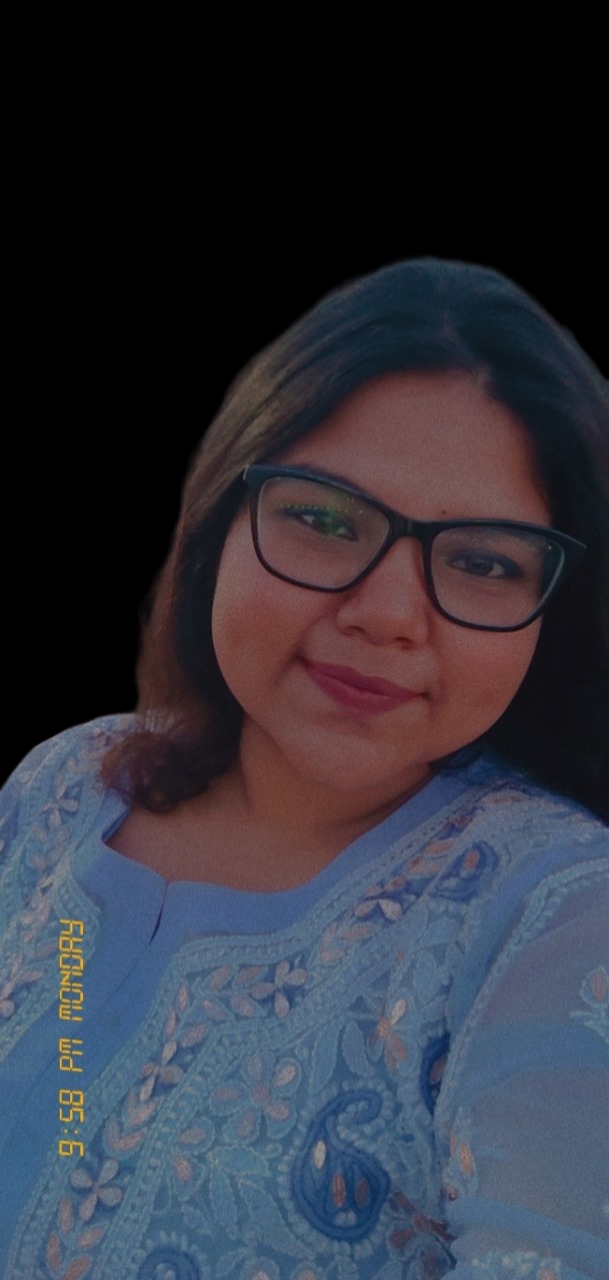
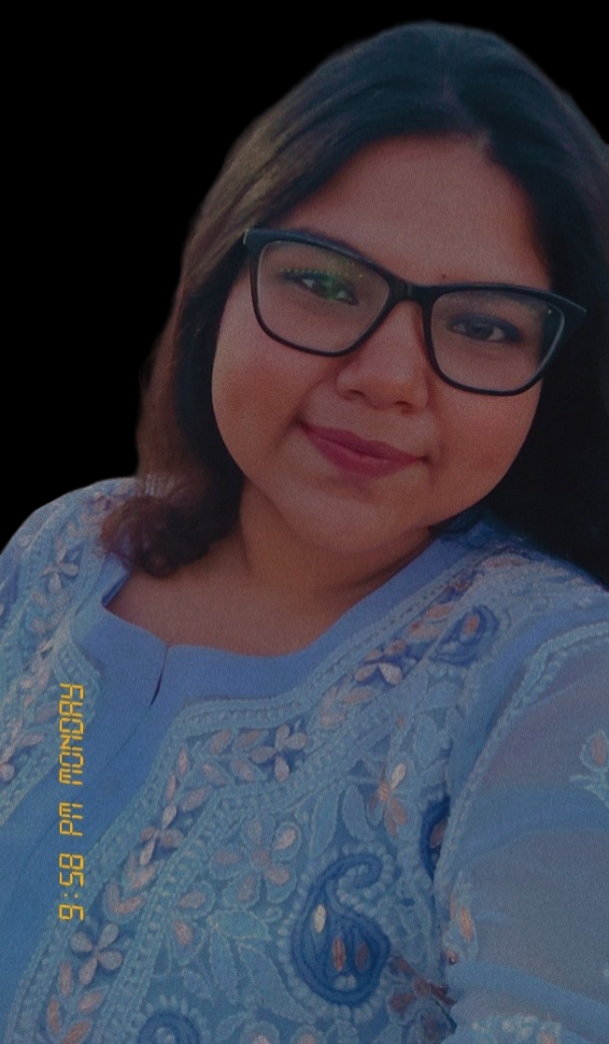
Review 1: Changes in About section

diff --git a/style.css b/style.css
@@ -23,6 +23,7 @@ body{
     padding: 10px 10%;
 
 }
+
 nav{
     display: flex;
     align-items:center;
@@ -77,7 +78,6 @@ nav ul li a:hover::after{
     
 }
 #pic1{
-
     height: 35rem;
 }
 .row{
@@ -308,8 +308,9 @@ nav .fas{
     #header{
         background-image: url(images/myphone-background.png);
     }
+    
     .header-text{
-        margin-top:100%;
+        margin-top:60%;
         font-size:16px;
     }
     .header-text h1{
@@ -357,11 +358,19 @@ nav .fas{
         margin-right: 20px;
      }
      .contact-left, .contact-right{
-        flex-basis: 100;
+        flex-basis: 100%;
      }
      .copyright{
         font-size: 14px;
      }
+
+     #pic1{
+        height: 25rem;
+        display: block;
+        margin: auto;
+    }
+
+    
 
 }
     #msg{
